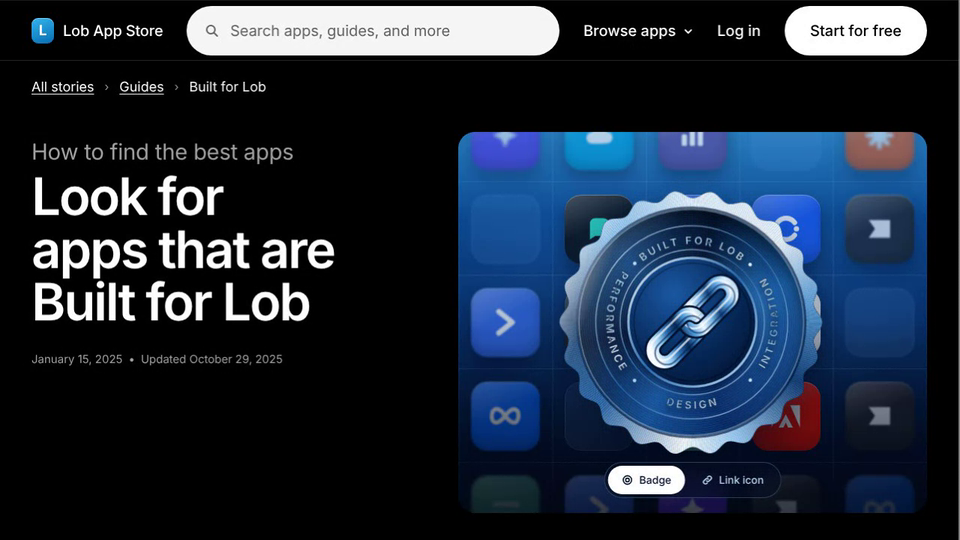
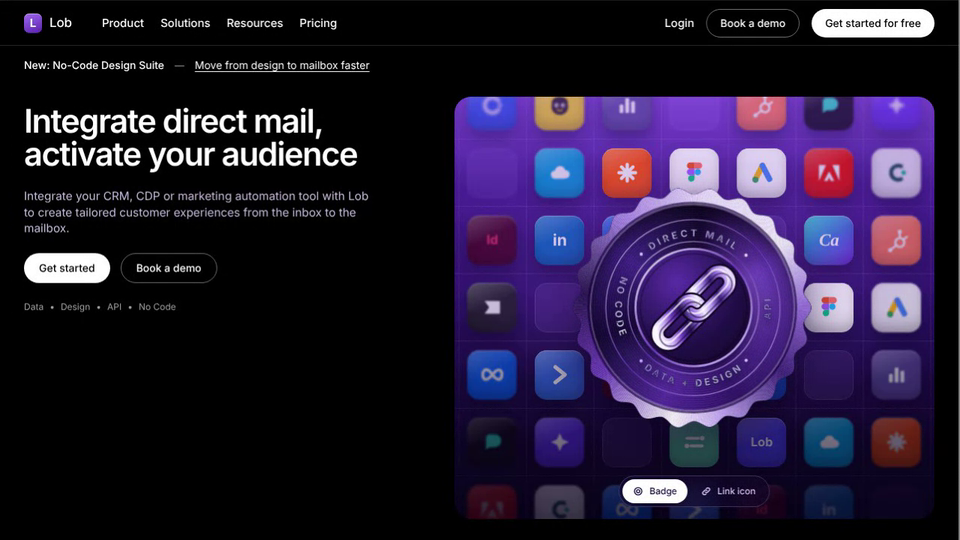
Lob Integrations Hero: copy from lob.com/integrations, metallic purple, smaller elements, more integrations
Claude-Session: https://claude.ai/code/session_01AHeBdw5Dmhovddhvfinq8X

diff --git a/lob-integrations-hero/index.html b/lob-integrations-hero/index.html
@@ -19,52 +19,52 @@ nav.back b{font-weight:500;color:#fff;overflow:hidden;text-overflow:ellipsis}
 @media (max-width:640px){nav.back{padding:0 16px}nav.back>span:nth-of-type(2),nav.back>b{display:none}}
 
 /* ---------- Lob App Store header ---------- */
-.top{flex:none;height:80px;display:flex;align-items:center;gap:32px;padding:0 42px;border-bottom:1px solid #262626}
-.brand{display:flex;align-items:center;gap:12px;font-weight:500;font-size:20px;letter-spacing:-.01em;color:#fff;text-decoration:none;white-space:nowrap}
-.brand i{width:30px;height:34px;border-radius:9px;background:linear-gradient(160deg,#35b8f1,#0a6fb4);display:grid;place-items:center;font:700 19px/1 "Inter",sans-serif;font-style:normal;color:#fff;box-shadow:inset 0 1px 0 rgba(255,255,255,.4)}
-.search{flex:0 1 560px;margin:0 auto 0 auto;display:flex;align-items:center;gap:14px;height:66px;padding:0 24px;border-radius:99px;background:#f6f6f4;color:#616161;font-size:20px;min-width:0}
+.top{flex:none;height:60px;display:flex;align-items:center;gap:24px;padding:0 32px;border-bottom:1px solid #262626}
+.brand{display:flex;align-items:center;gap:10px;font-weight:500;font-size:17px;letter-spacing:-.01em;color:#fff;text-decoration:none;white-space:nowrap}
+.brand i{width:24px;height:26px;border-radius:7px;background:linear-gradient(160deg,#a56cf0,#5a22b0);display:grid;place-items:center;font:700 15px/1 "Inter",sans-serif;font-style:normal;color:#fff;box-shadow:inset 0 1px 0 rgba(255,255,255,.4)}
+.xsearch{flex:0 1 560px;margin:0 auto 0 auto;display:flex;align-items:center;gap:14px;height:66px;padding:0 24px;border-radius:99px;background:#f6f6f4;color:#616161;font-size:20px;min-width:0}
 .search svg{flex:none}
 .search span{white-space:nowrap;overflow:hidden;text-overflow:ellipsis}
-.top .links{display:flex;align-items:center;gap:32px;margin-left:auto;white-space:nowrap;font-size:20px;font-weight:500}
+.top .links{display:flex;align-items:center;gap:16px;margin-left:auto;white-space:nowrap;font-size:15px;font-weight:500}
 .top a{color:#fff;text-decoration:none}
-.btn-free{height:66px;padding:0 34px;border-radius:99px;background:#fff;color:#000!important;display:flex;align-items:center}
+.top .btn-free,.top .btn-ghost{height:38px;padding:0 18px;border-radius:99px;display:flex;align-items:center;font-size:14px}.btn-free{background:#fff;color:#000!important}
 .top .links a:hover{opacity:.8}
-@media (max-width:1100px){.top .links .browse{display:none}}
-@media (max-width:820px){.top{height:64px;padding:0 20px;gap:12px}.search,.browse{display:none}.top .links{gap:16px;font-size:16px}.btn-free{height:44px;padding:0 20px}.brand{font-size:17px}}
+@media (max-width:1100px){.top .menu{display:none}}
+@media (max-width:820px){.top{height:64px;padding:0 20px;gap:12px}.menu,.btn-ghost{display:none}.top .links{gap:16px;font-size:16px}.top .btn-free{height:44px;padding:0 20px;font-size:16px}.brand{font-size:17px}}
 
 /* ---------- breadcrumb ---------- */
-.crumbs{flex:none;display:flex;align-items:center;gap:14px;padding:22px 42px 0;font-size:18px;white-space:nowrap;overflow:hidden}
-.crumbs a{color:#fff;text-underline-offset:3px}
-.crumbs span{color:#9a9a9a;font-size:15px}
+.crumbs{flex:none;display:flex;align-items:center;gap:14px;padding:16px 32px 0;font-size:14px;white-space:nowrap;overflow:hidden}
+.crumbs a{color:#fff;text-underline-offset:3px}.crumbs{color:#fff}
+.crumbs span{color:#9a9a9a;font-size:13px}
 @media (max-width:820px){.crumbs{padding:16px 20px 0;font-size:15px}}
 
 /* ---------- hero ---------- */
-.hero{flex:1;min-height:520px;display:grid;grid-template-columns:5fr 6fr;gap:48px;padding:48px 42px 36px}
+.hero{flex:1;min-height:520px;display:grid;grid-template-columns:5fr 6fr;gap:40px;padding:32px 32px 28px}
 .copy{display:flex;flex-direction:column;justify-content:flex-start;padding-top:6px;min-width:0}
 .eyebrow{font-size:clamp(22px,2.3vw,30px);font-weight:400;color:#a3a3a3;letter-spacing:-.01em}
-h1{text-wrap:balance;margin-top:4px;font-weight:600;font-size:clamp(44px,5.4vw,72px);line-height:1.02;letter-spacing:-.035em}
-.meta{margin-top:30px;font-size:15px;color:#a3a3a3;display:flex;gap:8px;flex-wrap:wrap}
+h1{text-wrap:balance;margin-top:4px;font-weight:600;font-size:clamp(30px,3.4vw,46px);line-height:1.02;letter-spacing:-.035em}
+.sub{margin-top:24px;font-size:clamp(14px,1.2vw,16px);line-height:1.4;color:#c9bde0;max-width:30em}.cta{display:flex;gap:14px;margin-top:22px;flex-wrap:wrap}.cta a{height:40px;font-size:14px;font-weight:500;text-decoration:none;padding:0 20px;border-radius:99px;display:flex;align-items:center}.btn-ghost{border:1px solid rgba(255,255,255,.45);color:#fff!important}.crumbs b{font-weight:500}.top .menu{display:flex;gap:22px;font-size:15px;font-weight:500;margin-left:16px}.meta{margin-top:24px;font-size:12px;color:#a3a3a3;display:flex;gap:8px;flex-wrap:wrap}
 .meta i{font-style:normal}
 @media (max-width:900px){.hero{grid-template-columns:1fr;gap:28px;padding:32px 20px 28px}.copy{padding-top:0}.panel{height:min(112vw,540px)!important}}
 
 /* ---------- visual panel ---------- */
 .panel{position:relative;min-height:0;border-radius:22px;overflow:hidden;container-type:size;isolation:isolate;
-  background:linear-gradient(180deg,#2a7fc2 0%,#0e4b94 22%,#0a2f66 52%,#050f26 88%,#030914 100%)}
+  background:linear-gradient(180deg,#7a3fd1 0%,#4a1d96 22%,#2e1166 52%,#12082e 88%,#0a0420 100%)}
 .tiles{position:absolute;left:50%;top:50%;transform:translate(-50%,-50%);display:grid;z-index:1}
 .lines{position:absolute;inset:0;z-index:0;pointer-events:none;
-  background-image:linear-gradient(90deg,rgba(160,215,255,.16) 1px,transparent 1px),linear-gradient(0deg,rgba(160,215,255,.16) 1px,transparent 1px);
+  background-image:linear-gradient(90deg,rgba(205,170,255,.16) 1px,transparent 1px),linear-gradient(0deg,rgba(205,170,255,.16) 1px,transparent 1px);
   -webkit-mask-image:radial-gradient(ellipse 80% 80% at 50% 50%,#000 30%,rgba(0,0,0,.45) 100%);mask-image:radial-gradient(ellipse 80% 80% at 50% 50%,#000 30%,rgba(0,0,0,.45) 100%)}
 .tile{position:relative;width:var(--cell);height:var(--cell);border-radius:24%;display:grid;place-items:center;
   background:var(--bg);opacity:calc(var(--o,1)*var(--mo,1));filter:blur(var(--b,0px));
-  box-shadow:inset 0 1px 0 rgba(255,255,255,.4),inset 0 -8px 14px rgba(0,0,0,.2),0 12px 22px rgba(0,8,30,.45);
+  box-shadow:inset 0 1px 0 rgba(255,255,255,.4),inset 0 -8px 14px rgba(0,0,0,.2),0 12px 22px rgba(10,0,30,.45);
   transition:opacity .9s ease,filter .9s ease}
 .tile::after{content:"";position:absolute;inset:0;border-radius:inherit;background:linear-gradient(155deg,rgba(255,255,255,.3),rgba(255,255,255,0) 46%)}
 .tile svg{width:62%;height:62%;position:relative;z-index:1;overflow:visible}
-.tile.ghost{background:rgba(120,185,245,.13);box-shadow:inset 0 0 0 1px rgba(160,215,255,.18)}
+.tile.ghost{background:rgba(170,120,245,.14);box-shadow:inset 0 0 0 1px rgba(205,170,255,.18)}
 .tile.ghost::after{display:none}
 body[data-mode="icon"] .tile{--mo:.2;filter:blur(1.5px)}
 body[data-mode="icon"] .tile.ghost{--mo:.9}
-.veil{position:absolute;inset:0;z-index:2;pointer-events:none;background:linear-gradient(180deg,rgba(7,20,48,0) 50%,rgba(3,9,22,.7) 100%),radial-gradient(ellipse 70% 60% at 50% 40%,rgba(40,120,200,.28),transparent 70%)}
+.veil{position:absolute;inset:0;z-index:2;pointer-events:none;background:linear-gradient(180deg,rgba(20,8,48,0) 50%,rgba(10,4,24,.7) 100%),radial-gradient(ellipse 70% 60% at 50% 40%,rgba(140,70,220,.3),transparent 70%)}
 
 .slot{position:absolute;inset:0;z-index:3;display:grid;place-items:center;perspective:1300px;pointer-events:none;
   transition:opacity .7s ease,transform .9s cubic-bezier(.2,.8,.2,1)}
@@ -73,35 +73,35 @@ body[data-mode="icon"] .slot-badge{opacity:0;transform:scale(.62) translateY(24p
 body[data-mode="icon"] .slot-icon{opacity:1;transform:none}
 
 /* ---- the badge ---- */
-.badge{position:relative;width:min(66cqw,72cqh,420px);aspect-ratio:1;transform-style:preserve-3d;will-change:transform;
-  filter:drop-shadow(0 26px 30px rgba(0,8,30,.55))}
-.badge>.ext{position:absolute;inset:0;clip-path:url(#serr);background:linear-gradient(160deg,#0f3a74,#041532)}
+.badge{position:relative;width:min(52cqw,60cqh,340px);aspect-ratio:1;transform-style:preserve-3d;will-change:transform;
+  filter:drop-shadow(0 26px 30px rgba(10,0,30,.55))}
+.badge>.ext{position:absolute;inset:0;clip-path:url(#serr);background:linear-gradient(160deg,#3c1a78,#150a30)}
 .face{position:absolute;inset:0;clip-path:url(#serr);overflow:hidden;
   background:
    repeating-conic-gradient(from 0deg,rgba(255,255,255,.08) 0 .45deg,rgba(0,0,0,.1) .45deg .9deg),
-   conic-gradient(from var(--a,30deg),#eaf6ff 0,#5ba0dc 9%,#0d3a74 20%,#9ccdf4 31%,#f6fcff 38%,#2a69ad 50%,#082a5a 62%,#6fb0e6 74%,#e1f2ff 86%,#eaf6ff 100%)}
+   conic-gradient(from var(--a,30deg),#f3ecff 0,#9a6fe0 9%,#3a1a78 20%,#c4a6f4 31%,#fbf7ff 38%,#6a35b8 50%,#26104f 62%,#a67fe6 74%,#eadfff 86%,#f3ecff 100%)}
 .disc{position:absolute;inset:8.5%;border-radius:50%;
   background:
    repeating-radial-gradient(circle at 50% 50%,rgba(255,255,255,.04) 0 1px,rgba(0,0,0,.06) 1px 3px),
-   conic-gradient(from calc(var(--a,30deg)*-1 + 210deg),#0c3170,#1a5aa6 12%,#06193a 27%,#12447f 42%,#05142f 58%,#1a62b0 74%,#0c3170 100%);
-  box-shadow:inset 0 0 0 2px rgba(190,225,255,.35),inset 0 10px 26px rgba(0,0,0,.55),0 0 0 3px rgba(0,18,55,.65)}
+   conic-gradient(from calc(var(--a,30deg)*-1 + 210deg),#34146e,#5a2aa8 12%,#170a3a 27%,#43208a 42%,#13082e 58%,#6330b6 74%,#34146e 100%);
+  box-shadow:inset 0 0 0 2px rgba(220,195,255,.35),inset 0 10px 26px rgba(0,0,0,.55),0 0 0 3px rgba(20,0,55,.65)}
 .gloss{position:absolute;inset:0;background:radial-gradient(circle at var(--gx,35%) var(--gy,25%),rgba(255,255,255,.5),rgba(255,255,255,.08) 28%,transparent 52%);mix-blend-mode:soft-light}
-.sweep{position:absolute;inset:0;background:linear-gradient(112deg,transparent 40%,rgba(255,255,255,.75) 49%,rgba(190,230,255,.15) 54%,transparent 60%);background-size:280% 100%;mix-blend-mode:screen;animation:sweep 5.5s ease-in-out infinite}
+.sweep{position:absolute;inset:0;background:linear-gradient(112deg,transparent 40%,rgba(255,255,255,.75) 49%,rgba(220,195,255,.15) 54%,transparent 60%);background-size:280% 100%;mix-blend-mode:screen;animation:sweep 5.5s ease-in-out infinite}
 @keyframes sweep{0%,35%{background-position:130% 0}80%,100%{background-position:-40% 0}}
-.glyph{position:absolute;inset:0;width:100%;height:100%;overflow:visible;transform:translateZ(16px);filter:drop-shadow(0 6px 5px rgba(0,10,40,.5))}
+.glyph{position:absolute;inset:0;width:100%;height:100%;overflow:visible;transform:translateZ(16px);filter:drop-shadow(0 6px 5px rgba(10,0,40,.5))}
 
 /* ---- the stand-alone icon ---- */
-.icon3d{position:relative;width:min(66cqw,76cqh,430px);aspect-ratio:1;transform-style:preserve-3d;will-change:transform}
-.icon3d svg{width:100%;height:100%;overflow:visible;filter:drop-shadow(0 22px 22px rgba(0,8,30,.55))}
-.floor{position:absolute;left:50%;top:50%;width:min(80cqw,520px);height:min(26cqw,160px);transform:translate(-50%,calc(min(33cqw,38cqh) + 6px));background:radial-gradient(ellipse,rgba(80,170,255,.35),transparent 68%);filter:blur(6px)}
+.icon3d{position:relative;width:min(50cqw,58cqh,320px);aspect-ratio:1;transform-style:preserve-3d;will-change:transform}
+.icon3d svg{width:100%;height:100%;overflow:visible;filter:drop-shadow(0 22px 22px rgba(10,0,30,.55))}
+.floor{position:absolute;left:50%;top:50%;width:min(64cqw,420px);height:min(20cqw,130px);transform:translate(-50%,calc(min(25cqw,29cqh) + 6px));background:radial-gradient(ellipse,rgba(160,100,255,.38),transparent 68%);filter:blur(6px)}
 
 /* ---- switcher ---- */
-.switch{position:absolute;z-index:5;left:50%;bottom:20px;transform:translateX(-50%);display:flex;gap:4px;padding:4px;border-radius:99px;background:rgba(5,14,34,.62);border:1px solid rgba(160,215,255,.25);-webkit-backdrop-filter:blur(10px);backdrop-filter:blur(10px)}
-.switch button{font:500 14px/1 "Inter",sans-serif;color:#b9d6f2;background:transparent;border:0;border-radius:99px;padding:11px 18px;cursor:pointer;display:flex;align-items:center;gap:8px;white-space:nowrap;transition:background .25s,color .25s}
+.switch{position:absolute;z-index:5;left:50%;bottom:16px;transform:translateX(-50%);display:flex;gap:4px;padding:4px;border-radius:99px;background:rgba(18,6,42,.62);border:1px solid rgba(205,170,255,.25);-webkit-backdrop-filter:blur(10px);backdrop-filter:blur(10px)}
+.switch button{font:500 12px/1 "Inter",sans-serif;color:#d8c4f5;background:transparent;border:0;border-radius:99px;padding:9px 14px;cursor:pointer;display:flex;align-items:center;gap:8px;white-space:nowrap;transition:background .25s,color .25s}
 .switch button:hover{color:#fff}
 .switch button:focus-visible{outline:2px solid #fff;outline-offset:2px}
-.switch button[aria-pressed="true"]{background:#fff;color:#05122b}
-.switch svg{width:16px;height:16px}
+.switch button[aria-pressed="true"]{background:#fff;color:#1a0a3a}
+.switch svg{width:14px;height:14px}
 
 @media (prefers-reduced-motion:reduce){.sweep{animation:none;background-position:60% 0;opacity:.6}.slot,.tile{transition:none}}
 </style>
@@ -110,31 +110,32 @@ body[data-mode="icon"] .slot-icon{opacity:1;transform:none}
 <nav class="back" aria-label="Sandbox"><a href="../">Sandbox</a><span>/</span><a href="../">Back to all projects</a><span>/</span><b>Lob Integrations Hero</b></nav>
 
 <header class="top">
-  <a class="brand" href="#"><i>L</i>Lob App Store</a>
-  <div class="search" role="search"><svg width="20" height="20" viewBox="0 0 20 20" fill="none" stroke="#616161" stroke-width="2" stroke-linecap="round"><circle cx="8.5" cy="8.5" r="5.5"/><path d="m13 13 4 4"/></svg><span>Search apps, guides, and more</span></div>
+  <a class="brand" href="#"><i>L</i>Lob</a>
+  <nav class="menu"><a href="#">Product</a><a href="#">Solutions</a><a href="#">Resources</a><a href="#">Pricing</a></nav>
   <div class="links">
-    <a class="browse" href="#">Browse apps <svg width="14" height="14" viewBox="0 0 14 14" fill="none" stroke="#fff" stroke-width="1.8" stroke-linecap="round" stroke-linejoin="round" style="vertical-align:-1px;margin-left:4px"><path d="m3 5 4 4 4-4"/></svg></a>
-    <a href="#">Log in</a>
-    <a class="btn-free" href="#">Start for free</a>
+    <a href="#">Login</a>
+    <a class="btn-ghost" href="#">Book a demo</a>
+    <a class="btn-free" href="#">Get started for free</a>
   </div>
 </header>
 
-<div class="crumbs"><a href="#">All stories</a><span>›</span><a href="#">Guides</a><span>›</span><div>Built for Lob</div></div>
+<div class="crumbs"><b>New: No-Code Design Suite</b><span>—</span><a href="#">Move from design to mailbox faster</a></div>
 
 <main class="hero">
   <div class="copy">
-    <p class="eyebrow">How to find the best apps</p>
-    <h1>Look for apps that are Built for Lob</h1>
-    <p class="meta"><span>January 15, 2025</span><i>•</i><span>Updated October 29, 2025</span></p>
+    <h1>Integrate direct mail, activate your audience</h1>
+    <p class="sub">Integrate your CRM, CDP or marketing automation tool with Lob to create tailored customer experiences from the inbox to the mailbox.</p>
+    <div class="cta"><a class="btn-free" href="#">Get started</a><a class="btn-ghost" href="#">Book a demo</a></div>
+    <p class="meta"><span>Data</span><i>•</i><span>Design</span><i>•</i><span>API</span><i>•</i><span>No Code</span></p>
   </div>
 
-  <section class="panel" id="panel" aria-label="Built for Lob badge on a grid of marketing integrations">
+  <section class="panel" id="panel" aria-label="Lob integrations badge on a grid of marketing integrations">
     <div class="lines" id="lines"></div>
     <div class="tiles" id="tiles" aria-hidden="true"></div>
     <div class="veil"></div>
 
     <div class="slot slot-badge" id="slotBadge">
-      <div class="badge" id="badge" role="img" aria-label="Built for Lob badge with a metallic link icon">
+      <div class="badge" id="badge" role="img" aria-label="Lob integrations badge with a metallic link icon">
         <i class="ext" style="transform:translateZ(-2px)"></i><i class="ext" style="transform:translateZ(-4px)"></i><i class="ext" style="transform:translateZ(-6px)"></i><i class="ext" style="transform:translateZ(-8px)"></i><i class="ext" style="transform:translateZ(-10px)"></i><i class="ext" style="transform:translateZ(-12px)"></i>
         <div class="face"><div class="disc"></div><div class="gloss"></div><div class="sweep"></div></div>
         <svg class="glyph" id="badgeSvg" viewBox="0 0 400 400" aria-hidden="true"></svg>
@@ -163,6 +164,10 @@ body[data-mode="icon"] .slot-icon{opacity:1;transform:none}
 /* ---------- brand tiles: simplified stand-in marks for popular marketing platforms ---------- */
 var W='#fff';
 var BRANDS=[
+ {n:'Lob',bg:'#4B3CF0',g:'<text x="24" y="31" font-family="Inter,Arial,sans-serif" font-weight="700" font-size="19" text-anchor="middle" fill="#fff">Lob</text>'},
+ {n:'Figma',bg:'#fff',g:'<path d="M17 8h7v10h-7a5 5 0 0 1 0-10z" fill="#F24E1E"/><path d="M24 8h7a5 5 0 0 1 0 10h-7z" fill="#FF7262"/><path d="M17 18h7v10h-7a5 5 0 0 1 0-10z" fill="#A259FF"/><circle cx="29" cy="23" r="5" fill="#1ABCFE"/><path d="M17 28h7v5a5 5 0 1 1-7-4.6z" fill="#0ACF83"/>'},
+ {n:'Customer.io',bg:'#fff',g:'<path d="M31 14a11 11 0 1 0 0 20" fill="none" stroke="#0F4C4A" stroke-width="6" stroke-linecap="round"/><circle cx="35" cy="24" r="3.4" fill="#00C48C"/>'},
+ {n:'InDesign',bg:'#49021F',g:'<text x="24" y="31" font-family="Inter,Arial,sans-serif" font-weight="700" font-size="20" text-anchor="middle" fill="#FF3366">Id</text>'},
  {n:'Mailchimp',bg:'#FFE01B',g:'<circle cx="24" cy="26" r="13" fill="#241C15"/><path d="M13 19c3-9 19-9 22 0" stroke="#241C15" stroke-width="3.4" fill="none" stroke-linecap="round"/><circle cx="19" cy="24" r="3.2" fill="#fff"/><circle cx="29" cy="24" r="3.2" fill="#fff"/><circle cx="19.6" cy="24.4" r="1.4" fill="#241C15"/><circle cx="29.6" cy="24.4" r="1.4" fill="#241C15"/><path d="M20 31c2.4 2 5.6 2 8 0" stroke="#FFE01B" stroke-width="2" fill="none" stroke-linecap="round"/>'},
  {n:'HubSpot',bg:'#FF7A59',g:'<circle cx="29" cy="28" r="7" fill="none" stroke="#fff" stroke-width="3.4"/><path d="M29 21V13M24 32l-9 7M35 23l5-4" stroke="#fff" stroke-width="3.2" stroke-linecap="round"/><circle cx="29" cy="11" r="3.2" fill="#fff"/><circle cx="14" cy="40" r="3.2" fill="#fff"/>'},
  {n:'Klaviyo',bg:'#232426',g:'<path d="M12 14h24v20H12l7-10z" fill="#fff"/>'},
@@ -184,7 +189,7 @@ var BRANDS=[
 var panel=document.getElementById('panel'), tiles=document.getElementById('tiles'), lines=document.getElementById('lines');
 function build(){
   var w=panel.clientWidth,h=panel.clientHeight; if(!w||!h) return;
-  var cell=Math.max(54,Math.min(92,Math.round(Math.min(w/6,h/5.2)))), gap=Math.round(cell*.36), pitch=cell+gap;
+  var cell=Math.max(44,Math.min(66,Math.round(Math.min(w/7,h/6)))), gap=Math.round(cell*.36), pitch=cell+gap;
   var cols=Math.ceil(w/pitch)+2; if(cols%2===0) cols++;
   var rows=Math.ceil(h/pitch)+2; if(rows%2===0) rows++;
   tiles.style.setProperty('--cell',cell+'px');
@@ -199,7 +204,7 @@ function build(){
   for(var r=0;r<rows;r++)for(var c=0;c<cols;c++){
     var dx=(c-(cols-1)/2)*pitch, dy=(r-(rows-1)/2)*pitch, d=Math.hypot(dx,dy*1.05)/half;
     var o=Math.max(.45,1-Math.max(0,d-.45)*.5).toFixed(2), b=(Math.max(0,d-.6)*2.6).toFixed(1);
-    var ghost=((r*5+c*11+3)%7===0), B=BRANDS[(r*7+c*3+((r*c)%5))%BRANDS.length];
+    var ghost=((r*5+c*11+3)%7===0), B=BRANDS[(c*7+r*3)%BRANDS.length];
     html+='<div class="tile'+(ghost?' ghost':'')+'" style="--o:'+o+';--b:'+b+'px'+(ghost?'':';--bg:'+B.bg)+'"'+(ghost?'':' title="'+B.n+'"')+'>'+(ghost?'':'<svg viewBox="0 0 48 48">'+B.g+'</svg>')+'</div>';
   }
   tiles.innerHTML=html;
@@ -211,11 +216,11 @@ if(window.ResizeObserver){var rt;new ResizeObserver(function(){clearTimeout(rt);
 (function(){var d='',N=360;for(var i=0;i<N;i++){var t=i/N*Math.PI*2,r=.468+.014*Math.cos(t*22);d+=(i?'L':'M')+(.5+r*Math.cos(t)).toFixed(4)+' '+(.5+r*Math.sin(t)).toFixed(4)}document.getElementById('serrPath').setAttribute('d',d+'Z')})();
 
 /* ---------- metallic chain link, drawn as chrome-banded strokes; the two links weave through each other ---------- */
-var CHROME=[['0','#f6fcff'],['.1','#9ad0f5'],['.2','#2a6cae'],['.3','#082a58'],['.4','#4f9ddc'],['.5','#f0faff'],['.6','#7ab8e8'],['.7','#14447f'],['.8','#5fa8e2'],['.9','#e4f4ff'],['1','#8fc5ee']];
+var CHROME=[['0','#fbf7ff'],['.1','#c9a8f5'],['.2','#6a35b8'],['.3','#25104f'],['.4','#9a6fe0'],['.5','#f6f0ff'],['.6','#b08ceb'],['.7','#3d1c7a'],['.8','#a47ce6'],['.9','#efe4ff'],['1','#bb9aee']];
 function stops(){return CHROME.map(function(s){return '<stop offset="'+s[0]+'" stop-color="'+s[1]+'"/>'}).join('')}
 var LA='M-68-20H-8a20 20 0 0 1 0 40H-68a20 20 0 0 1 0-40Z', LB='M8-20H68a20 20 0 0 1 0 40H8a20 20 0 0 1 0-40Z';
 function link(id,scale){
-  function one(p){return '<path d="'+p+'" fill="none" stroke="#031330" stroke-width="28" stroke-linejoin="round"/><path d="'+p+'" fill="none" stroke="url(#'+id+'g)" stroke-width="21"/><path d="'+p+'" fill="none" stroke="#fff" stroke-opacity=".7" stroke-width="3.6" transform="translate(0 -4.6)"/><path d="'+p+'" fill="none" stroke="#032050" stroke-opacity=".55" stroke-width="3" transform="translate(0 5.6)"/>'}
+  function one(p){return '<path d="'+p+'" fill="none" stroke="#120626" stroke-width="28" stroke-linejoin="round"/><path d="'+p+'" fill="none" stroke="url(#'+id+'g)" stroke-width="21"/><path d="'+p+'" fill="none" stroke="#fff" stroke-opacity=".7" stroke-width="3.6" transform="translate(0 -4.6)"/><path d="'+p+'" fill="none" stroke="#1a0a40" stroke-opacity=".55" stroke-width="3" transform="translate(0 5.6)"/>'}
   return '<defs><linearGradient id="'+id+'g" class="gx" data-c="0 0" gradientUnits="userSpaceOnUse" x1="-95" y1="0" x2="95" y2="0">'+stops()+'</linearGradient>'+
    '<clipPath id="'+id+'c"><rect x="-30" y="-46" width="60" height="46"/></clipPath></defs>'+
    '<g transform="scale('+scale+') rotate(-45)">'+one(LA)+one(LB)+'<g clip-path="url(#'+id+'c)">'+one(LA)+'</g></g>';
@@ -226,18 +231,18 @@ document.getElementById('icon3d').innerHTML='<svg viewBox="-110 -110 220 220" ar
 (function(){
   var R1=114,R2=126.4;
   function circ(r,ccw){return ccw?'M200 '+(200-r)+'A'+r+' '+r+' 0 1 0 200 '+(200+r)+'A'+r+' '+r+' 0 1 0 200 '+(200-r)+'Z':'M'+(200-r)+' 200A'+r+' '+r+' 0 1 1 '+(200+r)+' 200A'+r+' '+r+' 0 1 1 '+(200-r)+' 200Z'}
-  var txt='font-family="Inter,Arial,sans-serif" font-weight="700" font-size="15.5" letter-spacing="3.6" fill="url(#bt)" stroke="#021028" stroke-width=".5" text-anchor="middle"';
+  var txt='font-family="Inter,Arial,sans-serif" font-weight="700" font-size="15.5" letter-spacing="4.4" fill="url(#bt)" stroke="#021028" stroke-width=".5" text-anchor="middle"';
   var dots='';[45,135,225,315].forEach(function(a){var t=a*Math.PI/180;dots+='<circle cx="'+(200+120*Math.cos(t)).toFixed(1)+'" cy="'+(200+120*Math.sin(t)).toFixed(1)+'" r="2.6" fill="url(#bt)"/>'});
   document.getElementById('badgeSvg').innerHTML=
-   '<defs><linearGradient id="bt" class="gx" data-c="200 200" gradientUnits="userSpaceOnUse" x1="60" y1="60" x2="340" y2="340"><stop offset="0" stop-color="#ffffff"/><stop offset=".25" stop-color="#9fd3fa"/><stop offset=".45" stop-color="#e8f6ff"/><stop offset=".65" stop-color="#6fb4ea"/><stop offset=".85" stop-color="#f4fbff"/><stop offset="1" stop-color="#a8d6f7"/></linearGradient>'+
-   '<radialGradient id="plate" cx=".35" cy=".28" r=".9"><stop offset="0" stop-color="#1c5aa5"/><stop offset=".55" stop-color="#082a5a"/><stop offset="1" stop-color="#03112c"/></radialGradient>'+
-   '<linearGradient id="rim" x1="0" y1="0" x2="1" y2="1"><stop offset="0" stop-color="#f4fbff"/><stop offset=".5" stop-color="#2a6cae"/><stop offset="1" stop-color="#cfe9ff"/></linearGradient>'+
+   '<defs><linearGradient id="bt" class="gx" data-c="200 200" gradientUnits="userSpaceOnUse" x1="60" y1="60" x2="340" y2="340"><stop offset="0" stop-color="#ffffff"/><stop offset=".25" stop-color="#c8a8f8"/><stop offset=".45" stop-color="#f3eaff"/><stop offset=".65" stop-color="#a07ae4"/><stop offset=".85" stop-color="#faf5ff"/><stop offset="1" stop-color="#c9aaf6"/></linearGradient>'+
+   '<radialGradient id="plate" cx=".35" cy=".28" r=".9"><stop offset="0" stop-color="#5a2aa8"/><stop offset=".55" stop-color="#26104f"/><stop offset="1" stop-color="#120626"/></radialGradient>'+
+   '<linearGradient id="rim" x1="0" y1="0" x2="1" y2="1"><stop offset="0" stop-color="#faf5ff"/><stop offset=".5" stop-color="#6a35b8"/><stop offset="1" stop-color="#e2d0ff"/></linearGradient>'+
    '<path id="pTop" d="'+circ(R1,false)+'"/><path id="pCcw" d="'+circ(R2,true)+'"/></defs>'+
    '<circle cx="200" cy="200" r="141" fill="none" stroke="url(#rim)" stroke-width="1.6" opacity=".8"/><circle cx="200" cy="200" r="106" fill="none" stroke="url(#rim)" stroke-width="1.6" opacity=".8"/>'+
-   '<text '+txt+'><textPath href="#pTop" startOffset="25%">BUILT FOR LOB</textPath></text>'+
-   '<text '+txt+'><textPath href="#pCcw" startOffset="25%">PERFORMANCE</textPath></text>'+
-   '<text '+txt+'><textPath href="#pCcw" startOffset="50%">DESIGN</textPath></text>'+
-   '<text '+txt+'><textPath href="#pCcw" startOffset="75%">INTEGRATION</textPath></text>'+dots+
+   '<text '+txt+'><textPath href="#pTop" startOffset="25%">DIRECT MAIL</textPath></text>'+
+   '<text '+txt+'><textPath href="#pCcw" startOffset="25%">NO CODE</textPath></text>'+
+   '<text '+txt+'><textPath href="#pCcw" startOffset="50%">DATA + DESIGN</textPath></text>'+
+   '<text '+txt+'><textPath href="#pCcw" startOffset="75%">API</textPath></text>'+dots+
    '<circle cx="200" cy="200" r="94" fill="url(#plate)" stroke="url(#rim)" stroke-width="3.4"/><circle cx="200" cy="200" r="86" fill="none" stroke="#000" stroke-opacity=".35" stroke-width="1.5"/>'+
    '<g transform="translate(200 200)">'+link('bl',.86)+'</g>';
 })();
